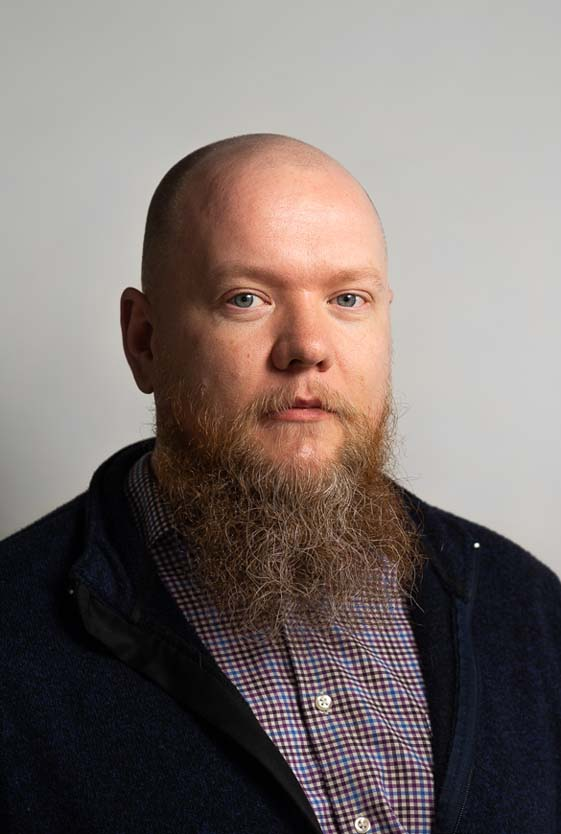
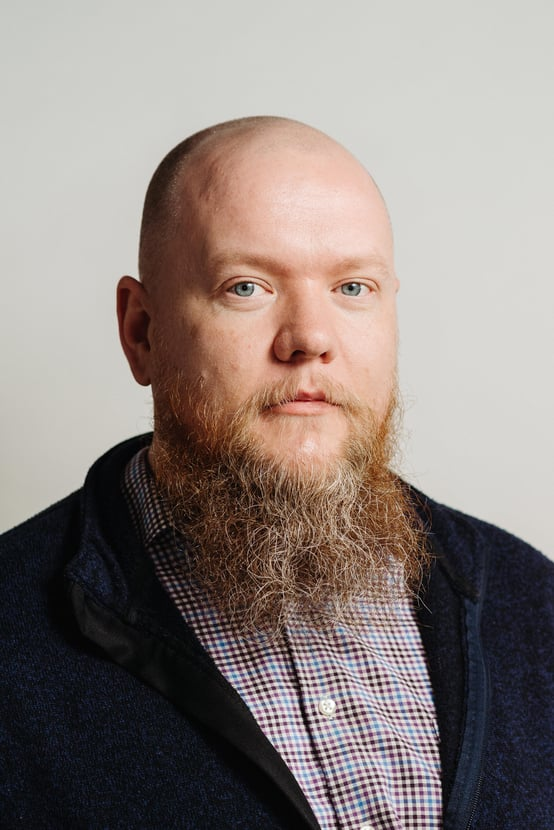
jeff photo and bio

diff --git a/src/about-content.js b/src/about-content.js
@@ -56,7 +56,7 @@ export const team =[
         imageBefore: (<StaticImage src='../src/images/team/jeff-before.jpg' alt='Jeff before a haircut' placehodeler='blurred' layout='fullWidth' objectFit='contain' className="block-team_member-images-two"/>),
         imageAfter: (<StaticImage src='../src/images/team/jeff-after.jpg' alt='Jeff after a haircut' placehodeler='blurred' layout='fullWidth' objectFit='contain' className="block-team_member-images-one"/>),
         title: 'Developer',
-        profile: 'Lorem ipsum dolor sit amet, consectetur adipiscing elit. Sed non sem in nulla dapibus fringilla non sed mi. Aliquam bibendum fermentum ligula, ac scelerisque est aliquet quis.'
+        profile: 'Jeff is a seasoned web and application developer with over 15 years experience.'
     },
 
 ]
